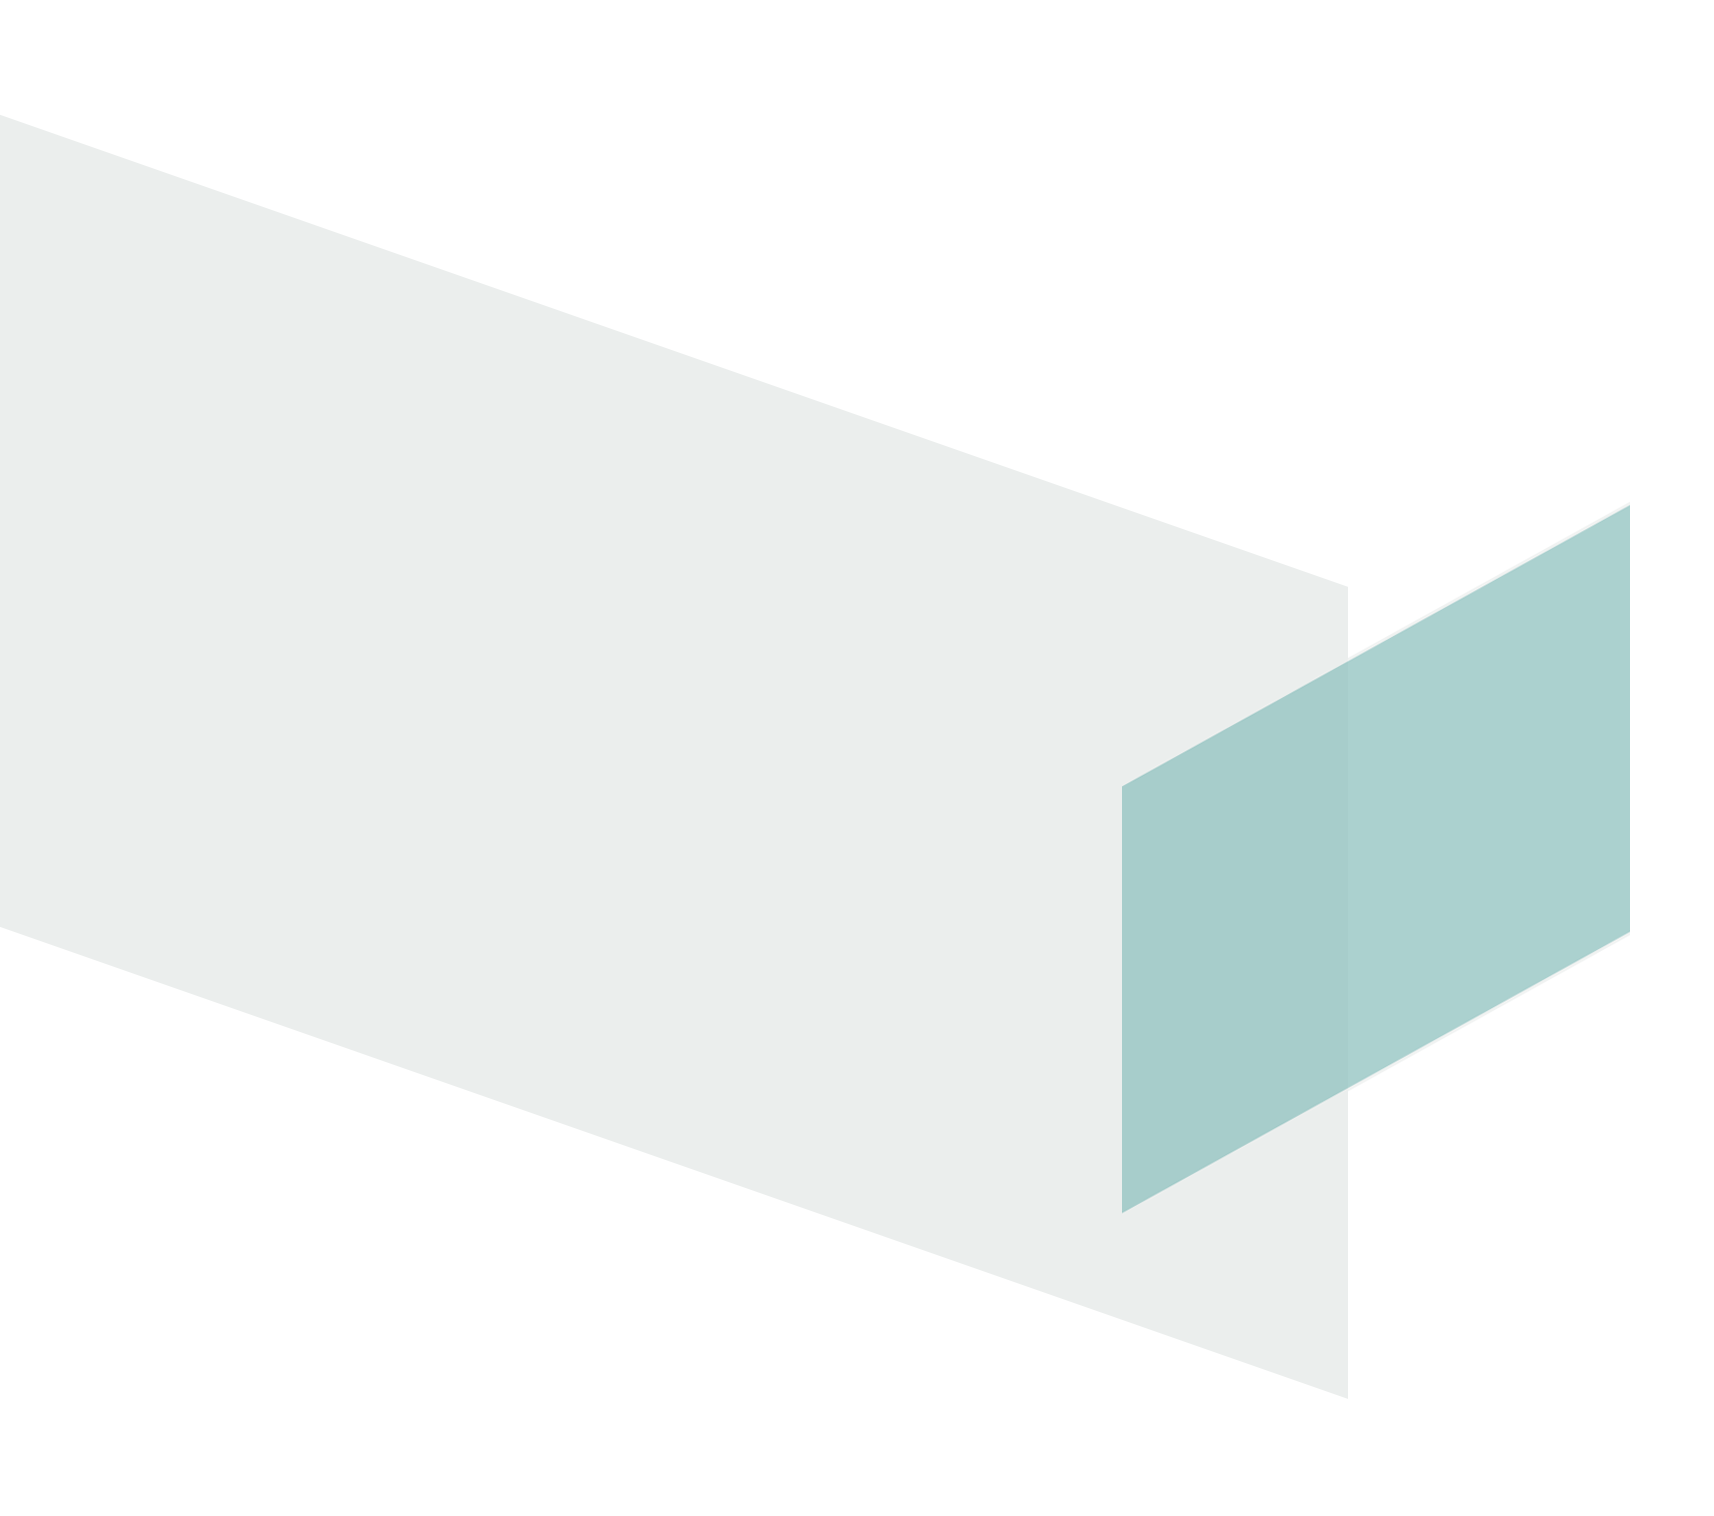
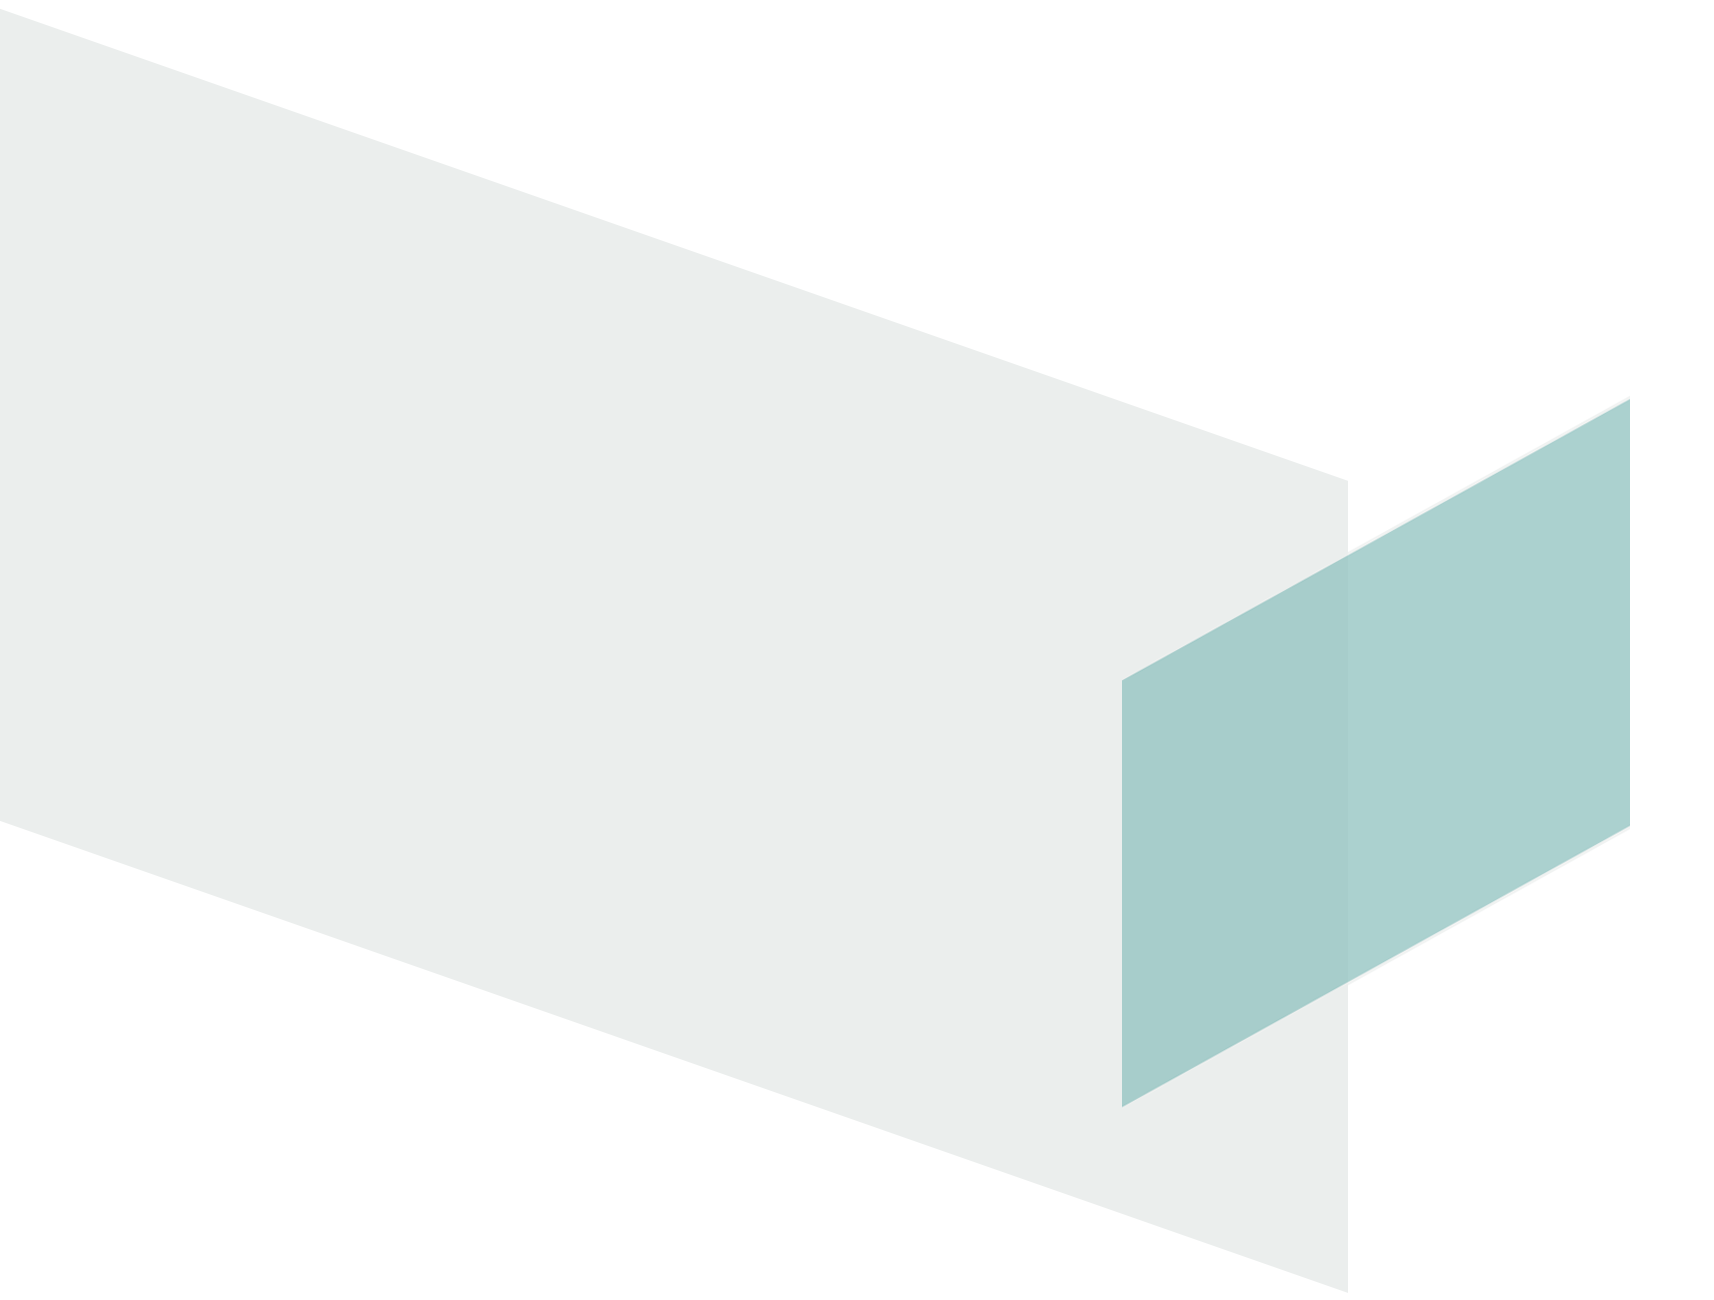
faq parallelograms in same png file

Changed region(s): [[0.6494, 0.6154, 0.9586, 0.8615], [0.8349, 0.3077, 0.9586, 0.4], [0.7421, 0.4, 0.8349, 0.4615]]

diff --git a/faqs.html b/faqs.html
@@ -42,136 +42,128 @@
       </div>
     </nav>
 
-
-    <div class= "faq-container">
-      <div class="faq-item">
-        <div class="faq-parallelogram-grey-section">
-          <img src="assets/parallelogram-grey.png" class="faq-parallelogram-grey" alt="parallelogram-grey">
-          <div class="faq-parallelogram-grey-content">
-            <p class="faq-parallelogram-grey-text">
-              We are open to anyone who is interested in corporate sustainability. Although we will not be responsible for your lodging or travel fees, we guarantee you that ACCESS will be a great learning experience.
-            </p>
-            <hr class="faq-line">
-          </div>
+    <div class="faq-item">
+      <div class="faq-bg">
+        <img src="assets/faq-shapes.png" class="faq-shapes" alt="faq-shapes">
+      </div>
+      <div class="faq-content">
+        <div class="faq-parallelogram-grey-content">
+          <p>
+            We are open to anyone who is interested in corporate sustainability. Although we will not be responsible for your lodging or travel fees, we guarantee you that ACCESS will be a great learning experience.
+          </p>
+          <hr class="faq-line">
         </div>
         <div class="faq-parallelogram-blue-section">
-          <img src="assets/parallelogram-blue.png" class="faq-parallelogram-blue" alt="parallelogram-blue">
-          <p class="faq-parallelogram-blue-text">FAQs</p>
+          <p>FAQs</p>
         </div>
         <div class="faq-question">
           <p class="faq-question-text">Do I have to major in business to join?</p>
-          <img src="assets/loadingdots1.png" class="faq-loading-dots" alt="parallelogram-blue">
+          <img src="assets/loadingdots1.png" class="faq-loading-dots" alt="loading-dots">
         </div>
       </div>
     </div>
 
-
-    <div class= "faq-container">
-      <div class="faq-item">
-        <div class="faq-parallelogram-grey-section">
-          <img src="assets/parallelogram-grey.png" class="faq-parallelogram-grey" alt="parallelogram-grey">
-          <div class="faq-parallelogram-grey-content">
-            <p class="faq-parallelogram-grey-text">
-              We will provide the fundamentals of corporate sustainability. We are open to anyone who is interested in corporate sustainability. Although we will not be responsible for your lodging or travel fees, we guarantee you that ACCESS will be a great learning experience.
-            </p>
-            <hr class="faq-line">
-          </div>
+    <div class="faq-item">
+      <div class="faq-bg">
+        <img src="assets/faq-shapes.png" class="faq-shapes" alt="faq-shapes">
+      </div>
+      <div class="faq-content">
+        <div class="faq-parallelogram-grey-content">
+          <p>
+            We will provide the fundamentals of corporate sustainability. We are open to anyone who is interested in corporate sustainability. Although we will not be responsible for your lodging or travel fees, we guarantee you that ACCESS will be a great learning experience.
+          </p>
+          <hr class="faq-line">
         </div>
         <div class="faq-parallelogram-blue-section">
-          <img src="assets/parallelogram-blue.png" class="faq-parallelogram-blue" alt="parallelogram-blue">
-          <p class="faq-parallelogram-blue-text">FAQs</p>
+          <p>FAQs</p>
         </div>
         <div class="faq-question">
           <p class="faq-question-text">Do I have to know about Corporate Sustainability?</p>
-          <img src="assets/loadingdots2.png" class="faq-loading-dots" alt="parallelogram-blue">
+          <img src="assets/loadingdots2.png" class="faq-loading-dots" alt="loading-dots">
         </div>
       </div>
     </div>
 
-    <div class= "faq-container">
-      <div class="faq-item">
-        <div class="faq-parallelogram-grey-section">
-          <img src="assets/parallelogram-grey.png" class="faq-parallelogram-grey" alt="parallelogram-grey">
-          <div class="faq-parallelogram-grey-content">
-            <p class="faq-parallelogram-grey-text">
-              Non-attendance to the Sustainability Forum will be excused for reasonable cases however, we highly encourage participation since the attendees will merit advantages that will affect the overall standing of the team.
-            </p>
-            <hr class="faq-line">
-          </div>
+    <div class="faq-item">
+      <div class="faq-bg">
+        <img src="assets/faq-shapes.png" class="faq-shapes" alt="faq-shapes">
+      </div>
+      <div class="faq-content">
+        <div class="faq-parallelogram-grey-content">
+          <p>
+            Non-attendance to the Sustainability Forum will be excused for reasonable cases however, we highly encourage participation since the attendees will merit advantages that will affect the overall standing of the team.
+          </p>
+          <hr class="faq-line">
         </div>
         <div class="faq-parallelogram-blue-section">
-          <img src="assets/parallelogram-blue.png" class="faq-parallelogram-blue" alt="parallelogram-blue">
-          <p class="faq-parallelogram-blue-text">FAQs</p>
+          <p>FAQs</p>
         </div>
         <div class="faq-question">
           <p class="faq-question-text">What happens if I do not attend the  Sustainability Forum?</p>
-          <img src="assets/loadingdots3.png" class="faq-loading-dots" alt="parallelogram-blue">
+          <img src="assets/loadingdots3.png" class="faq-loading-dots" alt="loading-dots">
         </div>
       </div>
     </div>
 
-    <div class= "faq-container">
-      <div class="faq-item">
-        <div class="faq-parallelogram-grey-section">
-          <img src="assets/parallelogram-grey.png" class="faq-parallelogram-grey" alt="parallelogram-grey">
-          <div class="faq-parallelogram-grey-content">
-            <p class="faq-parallelogram-grey-text">
-              We are open to anyone who is interested in corporate sustainability. Although we will not be responsible for your lodging or travel fees, we guarantee you that ACCESS will be a great learning experience.
-            </p>
-            <hr class="faq-line">
-          </div>
+    <div class="faq-item">
+      <div class="faq-bg">
+        <img src="assets/faq-shapes.png" class="faq-shapes" alt="faq-shapes">
+      </div>
+      <div class="faq-content">
+        <div class="faq-parallelogram-grey-content">
+          <p>
+            We are open to anyone who is interested in corporate sustainability. Although we will not be responsible for your lodging or travel fees, we guarantee you that ACCESS will be a great learning experience.
+          </p>
+          <hr class="faq-line">
         </div>
         <div class="faq-parallelogram-blue-section">
-          <img src="assets/parallelogram-blue.png" class="faq-parallelogram-blue" alt="parallelogram-blue">
-          <p class="faq-parallelogram-blue-text">FAQs</p>
+          <p>FAQs</p>
         </div>
         <div class="faq-question">
           <p class="faq-question-text">Can I join if i am not from NCR?</p>
-          <img src="assets/loadingdots4.png" class="faq-loading-dots" alt="parallelogram-blue">
+          <img src="assets/loadingdots4.png" class="faq-loading-dots" alt="loading-dots">
         </div>
       </div>
     </div>
 
-    <div class= "faq-container">
-      <div class="faq-item">
-        <div class="faq-parallelogram-grey-section">
-          <img src="assets/parallelogram-grey.png" class="faq-parallelogram-grey" alt="parallelogram-grey">
-          <div class="faq-parallelogram-grey-content">
-            <p class="faq-parallelogram-grey-text">
-              Case materials and kits will be emailed to your respective team leaders.
-            </p>
-            <hr class="faq-line">
-          </div>
+    <div class="faq-item">
+      <div class="faq-bg">
+        <img src="assets/faq-shapes.png" class="faq-shapes" alt="faq-shapes">
+      </div>
+      <div class="faq-content">
+        <div class="faq-parallelogram-grey-content">
+          <p>
+            Case materials and kits will be emailed to your respective team leaders.
+          </p>
+          <hr class="faq-line">
         </div>
         <div class="faq-parallelogram-blue-section">
-          <img src="assets/parallelogram-blue.png" class="faq-parallelogram-blue" alt="parallelogram-blue">
-          <p class="faq-parallelogram-blue-text">FAQs</p>
+          <p>FAQs</p>
         </div>
         <div class="faq-question">
           <p class="faq-question-text">How do I receive the case?</p>
-          <img src="assets/loadingdots5.png" class="faq-loading-dots" alt="parallelogram-blue">
+          <img src="assets/loadingdots5.png" class="faq-loading-dots" alt="loading-dots">
         </div>
       </div>
     </div>
 
-    <div class= "faq-container">
-      <div class="faq-item">
-        <div class="faq-parallelogram-grey-section">
-          <img src="assets/parallelogram-grey.png" class="faq-parallelogram-grey" alt="parallelogram-grey">
-          <div class="faq-parallelogram-grey-content">
-            <p class="faq-parallelogram-grey-text">
-              Yes, the Mentorship Session and Case Finals are required for all finalists to go through the competition. Please note that ACCESS will be responsible for your lodging or travel fees but we guarantee you that ACCESS will be a great learning experience.
-            </p>
-            <hr class="faq-line">
-          </div>
+    <div class="faq-item">
+      <div class="faq-bg">
+        <img src="assets/faq-shapes.png" class="faq-shapes" alt="faq-shapes">
+      </div>
+      <div class="faq-content">
+        <div class="faq-parallelogram-grey-content">
+          <p>
+            Yes, the Mentorship Session and Case Finals are required for all finalists to go through the competition. Please note that ACCESS will be responsible for your lodging or travel fees but we guarantee you that ACCESS will be a great learning experience.
+          </p>
+          <hr class="faq-line">
         </div>
         <div class="faq-parallelogram-blue-section">
-          <img src="assets/parallelogram-blue.png" class="faq-parallelogram-blue" alt="parallelogram-blue">
-          <p class="faq-parallelogram-blue-text">FAQs</p>
+          <p>FAQs</p>
         </div>
         <div class="faq-question">
           <p class="faq-question-text">Will I be required to go to NCR for the Mentorship Session and Case Finals if I get into the Top 10?</p>
-          <img src="assets/loadingdots6.png" class="faq-loading-dots" alt="parallelogram-blue">
+          <img src="assets/loadingdots6.png" class="faq-loading-dots" alt="loading-dots">
         </div>
       </div>
     </div>

diff --git a/stylesheets/style.css b/stylesheets/style.css
@@ -206,56 +206,60 @@ body {
   /*FAQs*/
   .faq-item {
     display: flex;
-    flex-direction: row;
+    flex-direction: column;
     align-items: center;
+    position: relative;
+  }
+
+  .faq-bg {
+    transform-origin: left;
+  }
+
+  .faq-shapes{
+    width: 75%;
+    flex: 3;
+  }
+
+  .faq-content{
+    display: flex;
+    flex-direction: row;
+    position: relative;
+    bottom: 400px;
   }
 
   .faq-line{
     border-color: #3f403f;
   }
 
-  .faq-parallelogram-grey-section {
-    width: 60%;
-    z-index: -1;
-  }
-
-  .faq-parallelogram-grey-content {
+  .faq-parallelogram-grey-content{
+    width: 50%;
+    padding: 0 7% 0 7%;
     font-size: 15px;
-    position: relative;
-    left: 10%;
-    top: 50%;
-    width: 60%;
-    bottom: 400px;
   }
 
-  .faq-parallelogram-blue-section {
+  .faq-parallelogram-blue-section{
     width: 20%;
-    position: relative;
-    right: 10%;
-  }
-
-  .faq-parallelogram-blue-text {
     font-weight: bold;
     color: white;
     font-size: 35px;
+    text-align: center;
     position: relative;
-    bottom: 220px;
-    left: 30%;
+    top: 50px;
   }
 
-  .faq-question {
+  .faq-question{
+    width: 25%;
     font-size: 17px;
     font-weight: bold;
-    position: relative;
-    right: 5%;
-  }
-
-  .faq-question-text {
-    width: 80%;
-    text-align: center;
-    padding: 5px;
     margin: auto;
   }
+
+  .faq-question-text{
+    text-align: center;
+    width: 60%;
+    margin: auto auto 5px auto;
+  }
+
 
   .faq-loading-dots {
     width: 70px;
